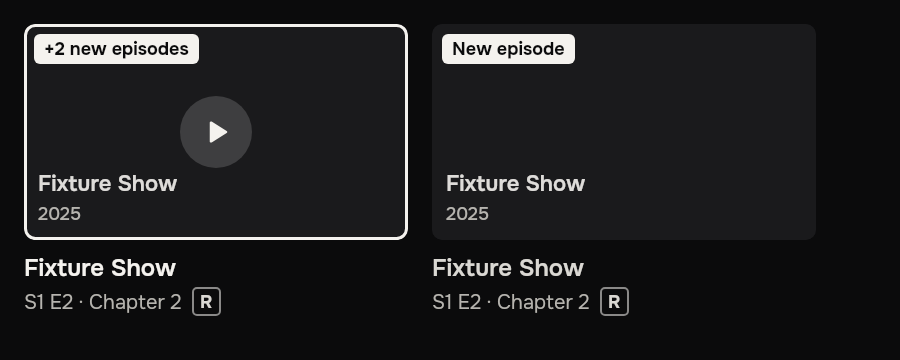
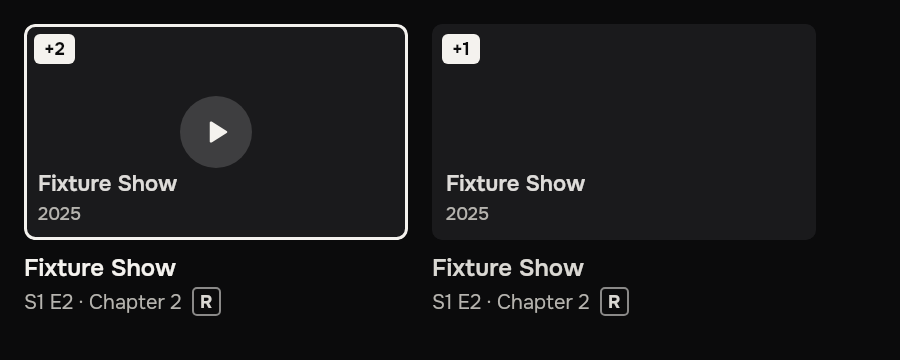
Draw the new-episode count as a compact "+N" and speak it in words
The backend now sends "+1", "+2", ... TV cards keep it in the light art
slot; phone, desktop and web cards in the art chip. Screen readers hear
"2 new episodes" (the TV card description and the chip's content
description). A provider's "New episode" is still recognised. Evidence
captures updated.

Changed region(s): [[0.0622, 0.0917, 0.2489, 0.1833], [0.4978, 0.0917, 0.6533, 0.1833]]

diff --git a/composeApp/src/desktopTest/kotlin/org/viptv/app/MetadataPresentationTest.kt b/composeApp/src/desktopTest/kotlin/org/viptv/app/MetadataPresentationTest.kt
@@ -5,6 +5,7 @@ import org.viptv.app.components.metadataParts
 import org.viptv.app.components.presentationBadges
 import org.viptv.app.components.isNewEpisodesBadge
 import org.viptv.app.components.newEpisodesBadge
+import org.viptv.app.components.newEpisodesDescription
 import org.viptv.app.components.cardChip
 import org.viptv.app.features.search.searchGroups
 import org.viptv.engine.wire.*
@@ -30,22 +31,29 @@ class MetadataPresentationTest {
 class NewEpisodesBadgeTest {
     private val show = Card(MediaIdentity("tt100:1:2", "series", emptyList()), provider_id = "addon:1", title = "Fixture Show", badges = emptyList())
     @Test fun recognisesTheServerCountLabelsOnly() {
+        assertTrue(isNewEpisodesBadge("+1"))
+        assertTrue(isNewEpisodesBadge("+12"))
         assertTrue(isNewEpisodesBadge("New episode"))
-        assertTrue(isNewEpisodesBadge("+2 new episodes"))
-        assertTrue(isNewEpisodesBadge("+12 new episodes"))
         assertFalse(isNewEpisodesBadge("Watched"))
-        assertFalse(isNewEpisodesBadge("+two new episodes"))
-        assertFalse(isNewEpisodesBadge("New"))
+        assertFalse(isNewEpisodesBadge("+"))
+        assertFalse(isNewEpisodesBadge("+2 new"))
+        assertFalse(isNewEpisodesBadge("4K"))
+    }
+    @Test fun theCompactLabelIsSpokenInWords() {
+        assertEquals("1 new episode", newEpisodesDescription("+1"))
+        assertEquals("2 new episodes", newEpisodesDescription("+2"))
+        assertEquals("New episode", newEpisodesDescription("New episode"))
+        assertEquals("Ended", newEpisodesDescription("Ended"))
     }
     @Test fun theCountLabelWinsTheArtSlotAndNeverBecomesAMetaChip() {
-        val card = show.copy(badges = listOf("Simkl", "4K", "+2 new episodes"))
-        assertEquals("+2 new episodes", card.newEpisodesBadge())
-        assertEquals("+2 new episodes", card.cardChip())
+        val card = show.copy(badges = listOf("Simkl", "4K", "+2"))
+        assertEquals("+2", card.newEpisodesBadge())
+        assertEquals("+2", card.cardChip())
         assertEquals(listOf("4K"), card.presentationBadges())
         assertEquals("4K", show.copy(badges = listOf("Simkl", "4K")).cardChip())
         assertNull(show.cardChip())
         // Watched is the corner check, never the text chip.
         assertNull(show.copy(badges = listOf("Watched")).cardChip())
-        assertEquals("New episode", show.copy(badges = listOf("Watched", "New episode")).cardChip())
+        assertEquals("+1", show.copy(badges = listOf("Watched", "+1")).cardChip())
     }
 }

diff --git a/composeApp/src/desktopTest/kotlin/org/viptv/app/TvCardVisualTest.kt b/composeApp/src/desktopTest/kotlin/org/viptv/app/TvCardVisualTest.kt
@@ -78,7 +78,7 @@ class TvCardVisualTest {
             "watched" to card(null).copy(badges = listOf("Watched", "4K")),
             "new-episode" to card(null).copy(badges = listOf("New episode", "Returning"),
                 identity = MediaIdentity("tt2", "series", emptyList())),
-            "new-episodes" to card(null).copy(badges = listOf("+2 new episodes"), subtitle = "S1 E2 · Chapter 2",
+            "new-episodes" to card(null).copy(badges = listOf("+2"), subtitle = "S1 E2 · Chapter 2",
                 identity = MediaIdentity("tt6", "series", emptyList(), episode = EpisodeCoordinates("aired", 1, 2))),
             "ended" to card(null).copy(badges = listOf("Ended"), identity = MediaIdentity("tt3", "series", emptyList())),
             "title-only" to card(null).copy(metadata = null),
@@ -112,14 +112,14 @@ class TvCardVisualTest {
 
     /** Continue Watching (landscape) with the new-episodes label, focused and not. */
     @Test fun captureContinueWatchingNewEpisodes() = onEdt {
-        val model = card(null).copy(title = "Fixture Show", badges = listOf("+2 new episodes"), subtitle = "S1 E2 · Chapter 2",
+        val model = card(null).copy(title = "Fixture Show", badges = listOf("+2"), subtitle = "S1 E2 · Chapter 2",
             identity = MediaIdentity("tt100:1:2", "series", emptyList(), episode = EpisodeCoordinates("aired", 1, 2)))
         val scene = ImageComposeScene(900, 360, Density(1f)) { ViptvTheme(true) {
             val requester = remember { FocusRequester() }
             LaunchedEffect(Unit) { requester.requestFocus() }
             Row(Modifier.fillMaxSize().background(Palette.background).padding(24.dp), horizontalArrangement = Arrangement.spacedBy(24.dp)) {
                 TvCatalogCard(model, 1f, false, Modifier.focusRequester(requester), focused = {}, open = {})
-                TvCatalogCard(model.copy(badges = listOf("New episode")), 1f, false, focused = {}, open = {})
+                TvCatalogCard(model.copy(badges = listOf("+1")), 1f, false, focused = {}, open = {})
             }
         } }
         try {

diff --git a/composeApp/src/commonMain/kotlin/org/viptv/app/features/home/TvCatalogCard.kt b/composeApp/src/commonMain/kotlin/org/viptv/app/features/home/TvCatalogCard.kt
@@ -39,6 +39,7 @@ import org.viptv.app.components.isWatched
 import org.viptv.app.components.isCapabilityBadge
 import org.viptv.app.components.isNewEpisodesBadge
 import org.viptv.app.components.newEpisodesBadge
+import org.viptv.app.components.newEpisodesDescription
 import org.viptv.app.components.metadataParts
 import org.viptv.app.resources.Res
 import org.viptv.app.resources.ic_play_zip
@@ -144,7 +145,7 @@ private data class TvCardStates(
             val watched = card.isWatched()
             val live = card.identity.kind.equals("channel", true) || card.identity.kind.equals("tv", true) ||
                 "live" in lower
-            // "New episode" or "+2 new episodes": the server's count wins the art slot.
+            // "+1", "+2" (or a provider's "New episode"): the count wins the art slot.
             val newEpisode = card.newEpisodesBadge()
             val ended = badges.firstOrNull { it.equals("Ended", true) }
             val returning = badges.firstOrNull { it.equals("Returning", true) }
@@ -192,7 +193,7 @@ private data class TvCardStates(
 private fun cardDescription(card: Card, states: TvCardStates): String = buildString {
     append(card.title)
     states.metaText?.let { append(", ").append(it) }
-    states.artLabel?.let { append(", ").append(it) }
+    states.artLabel?.let { append(", ").append(newEpisodesDescription(it)) }
     if (states.watched) append(", ").append(WATCHED_BADGE)
     states.metaLabel?.let { append(", ").append(it) }
     states.certification?.let { append(", rated ").append(it) }

diff --git a/composeApp/src/commonMain/kotlin/org/viptv/app/features/home/MediaCard.kt b/composeApp/src/commonMain/kotlin/org/viptv/app/features/home/MediaCard.kt
@@ -57,6 +57,7 @@ import org.viptv.app.components.ArtWatchedBadge
 import org.viptv.app.components.MediaMetadata
 import org.viptv.app.components.WatchedBadge
 import org.viptv.app.components.cardChip
+import org.viptv.app.components.newEpisodesDescription
 import org.viptv.app.components.isWatched
 import org.viptv.app.components.tvBackdropBlur
 import org.viptv.app.components.tvFocusOutline
@@ -119,7 +120,8 @@ fun MediaCard(card: Card, width: Int = 240, portrait: Boolean = false, showLabel
             AsyncImage(art, card.title, Modifier.fillMaxSize(), contentScale = ContentScale.Crop)
             // New episodes win the text label; Watched is the corner check below.
             card.cardChip()?.let { chip -> Surface(Modifier.align(Alignment.TopStart).padding(8.dp), shape = RoundedCornerShape(4.dp), color = Palette.text) {
-                Text(chip, Modifier.padding(horizontal = 6.dp, vertical = 3.dp), color = Palette.background, fontSize = (10 * labelScale.coerceAtLeast(1f)).sp, fontWeight = FontWeight.SemiBold, maxLines = 1)
+                val spoken = newEpisodesDescription(chip)
+                Text(chip, Modifier.padding(horizontal = 6.dp, vertical = 3.dp).semantics { contentDescription = spoken }, color = Palette.background, fontSize = (10 * labelScale.coerceAtLeast(1f)).sp, fontWeight = FontWeight.SemiBold, maxLines = 1)
             } }
             if (card.isWatched()) {
                 if (watchedBadgeSize != null) WatchedBadge(watchedBadgeSize, Modifier.align(Alignment.TopEnd))

diff --git a/composeApp/src/commonMain/kotlin/org/viptv/app/components/MediaPresentation.kt b/composeApp/src/commonMain/kotlin/org/viptv/app/components/MediaPresentation.kt
@@ -13,15 +13,22 @@ internal fun Card.metadataParts(): List<String> = metadata?.let { value -> build
 /** Card *state* labels: drawn on the art or as meta text, never as a meta chip (Tv3CardStates). */
 private val stateLabels = setOf("watched", "new episode", "returning", "ended", "live")
 
-private val newEpisodesCount = Regex("""\+\d+ new episodes""")
+private val newEpisodesCount = Regex("""\+(\d+)""")
 
 /**
  * Continue Watching labels a series with episodes released since the profile
- * last finished one: "New episode", then "+2 new episodes" while more arrive
- * (backend `continuation::new_episodes_badge`). Exact server strings only.
+ * last finished one with a compact count, "+1", "+2" (backend
+ * `continuation::new_episodes_badge`); providers may still send the board's
+ * "New episode". Exact strings only.
  */
 internal fun isNewEpisodesBadge(badge: String): Boolean =
     badge == "New episode" || newEpisodesCount.matches(badge)
+
+/** The words a screen reader says for a card label: "+2" is "2 new episodes". */
+internal fun newEpisodesDescription(badge: String): String =
+    newEpisodesCount.matchEntire(badge)?.groupValues?.get(1)?.let { count ->
+        if (count == "1") "1 new episode" else "$count new episodes"
+    } ?: badge
 
 internal fun Card.newEpisodesBadge(): String? = badges.firstOrNull(::isNewEpisodesBadge)
 
